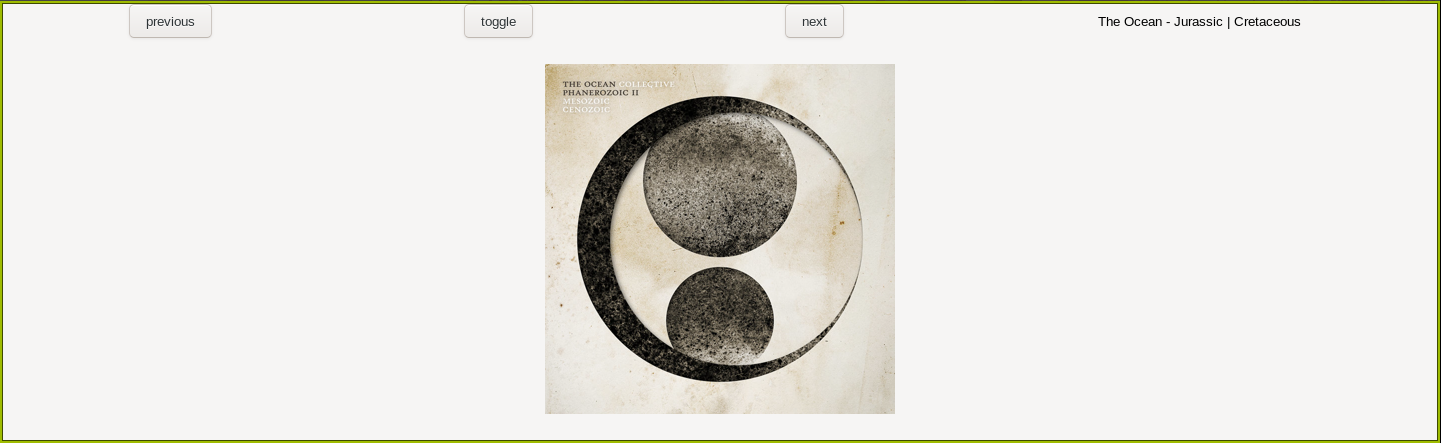
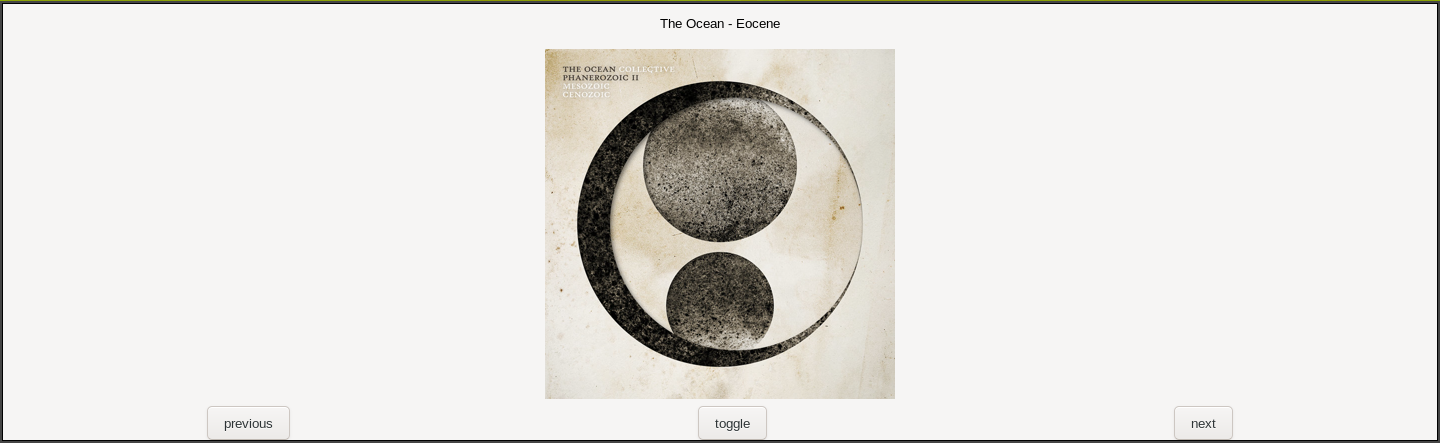
more adjustments

Changed region(s): [[0.0, 0.0, 1.0, 1.0], [0.5938, 0.4402, 0.625, 0.4695]]

diff --git a/src/main.rs b/src/main.rs
@@ -39,6 +39,7 @@ fn main() {
         // Boxes for organizing widgets
         let vbox = Box::new(Vertical, 0);
         let hbox = Box::new(Horizontal, 0);
+        let infobox = Box::new(Horizontal, 0);
 
         // Buttons
         let toggle = Button::with_label("toggle");
@@ -64,15 +65,16 @@ fn main() {
         entry.set_overwrite_mode(false);
         entry.set_has_frame(false);
         entry.set_activates_default(false);
-        entry.set_width_chars(30);
+        entry.set_alignment(0.5);
 
         // Actually use the boxes
         hbox.pack_start(&prev, true, false, 2);
         hbox.pack_start(&toggle, true, false, 2);
         hbox.pack_start(&next, true, false, 2);
-        hbox.pack_start(&entry, true, false, 2);
-        vbox.pack_start(&hbox, false, false, 0);
+        infobox.pack_start(&entry, true, true, 2);
+        vbox.pack_start(&infobox, true, true, 2);
         vbox.pack_start(&image, true, true, 0);
+        vbox.pack_start(&hbox, false, false, 0);
 
         // Display in window
         win.add(&vbox);
